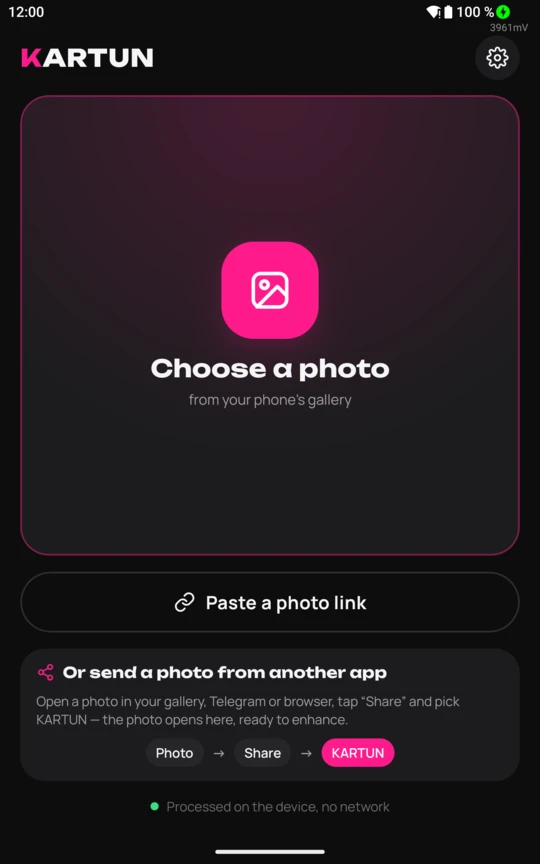
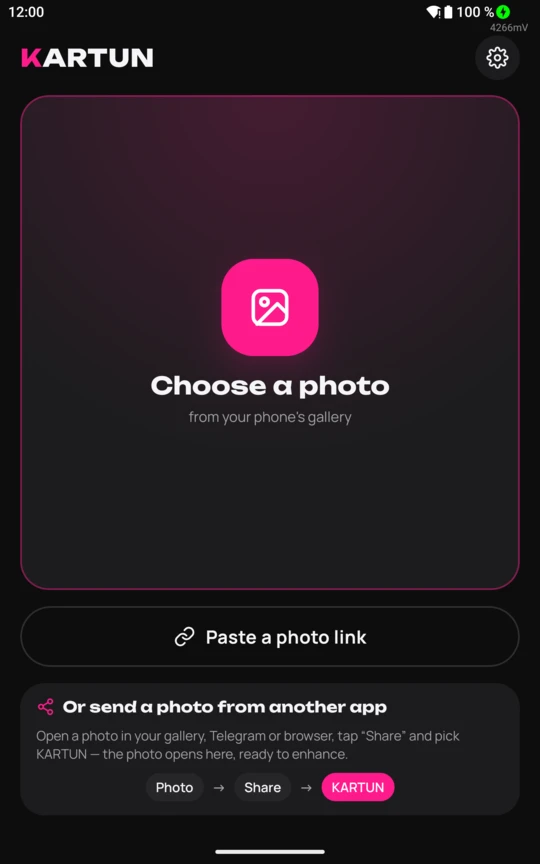
docs: soft close 2026-10-14 22:24 - STATUS rewritten as the live summary and the handover (the catalogue's next steps, the Titan recipe, what waits for the owner, the warning not to re-wire the ⏩ hooks), the session summary and the closed details moved verbatim to PROJECT_HISTORY; README screenshots

Changed region(s): [[0.0296, 0.625, 0.9778, 0.9375], [0.2667, 0.2812, 0.7407, 0.5], [0.3852, 0.3125, 0.4148, 0.375]]

diff --git a/STATUS.md b/STATUS.md
@@ -4,95 +4,80 @@
 > изменении. STATUS — сводка «сейчас»; закрытое переезжает дословно в `PROJECT_HISTORY.md`.
 > Принцип мышления — `PHILOSOPHY.md`; рабочий канон — `AGENT_GUIDE.md`; стенд и правила владельца — `HOUSE_RULES.md`.
 
-Последняя сессия: 2026-10-14 18:12–20:26 +03:00, закрыта мягко по слову владельца «закрывай чат, в новом продолжим. Можешь
-тестировать и дальше разрабатывать на титане в новом чате.» (сводка сессии — в `PROJECT_HISTORY.md`).
+Последняя сессия: 2026-10-14 20:37–22:24 +03:00, закрыта мягко по слову владельца «закрываем чат, и в новом продолжим,
+спасибо» (сводка и перенесённые подробности — в `PROJECT_HISTORY.md`).
 
-Неисправленные ложные утверждения: нет. Найденные и исправленные там, где стояли: «строки C15/C16 добавлены» (коммиты
-`2caef1e`, `7a3ac42`) → `9ed34b4`; числа тайлов в C25 → `03bdfdd`; «Lint падает внутри анализатора» в STATUS → `658a8b0`;
-«≈ 19:49» в блоке сторожа → `bdcc1e9`.
+Неисправленные ложные утверждения: нет. Найденное и исправленное: «медиа скопированы, сверка хешей не запускалась» —
+исправлено в чате и в STATUS (`02aa118`).
 
 ---
 
 ## Где мы сейчас
 
-Проект создан 2026-10-14. KAIF 2.8 с предрелизом 2.9 (`a63c651356bc`). Репозиторий: https://github.com/MikalaiKryvusha/KARTUN
-(публичный, `main`), README (EN + RU) и лицензия MIT на месте.
+Проект создан 2026-10-14. KAIF 2.8 с предрелизом 2.9 (`a63c651356bc`); хуки ⏩ (`pretool-owner-word`, `stop-owner-answer`)
+сняты по слову владельца «Убрать это!!!! ИЗ КАИФ НАХУЙ УБРАТ!» (коммит `9691dca`) — `tools/unwire-owner-word-hooks.mjs`;
+`node .kaif/kaif-core.mjs check` предлагает `wire-hooks` — **не запускать**, а после обновления KAIF снять их скриптом снова. Репозиторий: https://github.com/MikalaiKryvusha/KARTUN (публичный, `main`), README (EN + RU, скриншоты с Титана)
+и лицензия MIT на месте.
 
-**Фаза 0 закрыта** 2026-10-14 18:26: своя JNI-обёртка над ncnn `20260526`, Real-ESRGAN на GPU Mali-G615 (Vulkan) и CPU; быстрая
-модель `realesr-general-x4v3` — своя конвертация (`tools/convert-model.py`), на Титане 52,3 дБ к оригиналу, фото 1 Мп за 5,8 с;
-x4plus — 105 с. Модели и лицензии — `docs/model-licenses.md`, `docs/THIRD_PARTY.md`.
+**Фаза 0 закрыта** 2026-10-14 18:26: своя JNI-обёртка над ncnn `20260526`, Real-ESRGAN на GPU Mali-G615 (Vulkan) и CPU; фото
+1 Мп за 5,8 с быстрой моделью, x4plus — 89 с. Модели и лицензии — `docs/model-licenses.md`, `docs/THIRD_PARTY.md`.
 
-**Приложение (фазы 2, 3, части 1 и 4 — порядок 0 → 2 → 1 → 3 → 4, `plans/01` §3):** главный экран (выбор фото, «Поделиться» в
-KARTUN, «Вставить ссылку»), «Улучшение» (сворачивающееся превью, протяжка вниз — фото на весь экран, модели с предзагрузкой и
-оценкой времени словами, масштаб 1×–16×, (i) диалогами), обработка (кольцо процентов по тайлам, «Отменить», два прохода 8×/16×,
-фоновая служба с уведомлением, «Фото готово»), результат («до/после» пальцем, «Сохранить» PNG/JPEG/WebP в `Pictures/KARTUN`,
-«Поделиться»), «Настройки» (GPU, уведомления, язык), «Руководство» (Markdown, 6 разделов), «О приложении»; альбомная
-ориентация; 10 языков (EN и RU ведутся руками, 8 — черновик `[AI]`); настройки запоминаются; своя векторная иконка-сердце.
-Планы: `plans/03_epic01_F2_screens.md` (шаги и правки владельца, 17–22 — открыто), `plans/04_epic01_F1_reliable_engine.md`.
+**Приложение (фазы 2, 3, части 1 и 4):** главный экран (выбор фото, «Поделиться» в KARTUN, «Вставить ссылку» — из буфера или
+окном с полем ввода), «Улучшение» (сворачивающееся превью с хендлом и жестами, модели по давности использования с описаниями
+«Быстрая · убирает шум и размытие» / «Детальная · чётче мелкие детали», масштаб 1×–16×), обработка (кольцо процентов
+табличными цифрами, «Отменить», фоновая служба с уведомлением), результат («до/после» за линию, фото двигается и
+увеличивается, сводка с моделью уезжает за край, «Сохранить» PNG/JPEG/WebP, «Поделиться»), «Настройки» (GPU, уведомления,
+язык, «О приложении» со ссылками и донатами, «Условия использования»), руководство; альбомная ориентация; 10 языков (EN и RU
+руками, 8 — черновик `[AI]`). Почти всё пройдено на Титане касаниями и снимками; `[NOT-TESTED]` остаётся набор
+`testcases/TC_F2_guarded_loop_device_backlog.md` (25 случаев).
 
-**На Титане проверено касаниями** то, что было до 19:12 (`testcases/reports/2026-10-14_F2_screens_slice1.md`), и правки
-сессии 20:37–21:55 (каждая — снимком экрана в той же сессии): системный вопрос об уведомлениях при первом «Улучшить» (выдано,
-прогон пошёл сам); хендл в свёрнутом и развёрнутом виде; экран результата — одна «Поделиться», серые подложки, полупрозрачные
-«До»/«После», модель в сводке, линия «до/после» берётся только за себя, фото двигается пальцем, двойное касание, сводка
-уезжает за край и возвращается стрелкой; цифры процентов не пляшут (замер ширины 268–320 → 295 px); порядок моделей по
-давности; «О приложении» со ссылками; надпись лицензии; плашка масштаба. Остаётся `[NOT-TESTED]`: набор
-`testcases/TC_F2_guarded_loop_device_backlog.md` (25 случаев + 3 контрольных) и жесты самого превью (`plans/03` шаг 17).
+**Каталог моделей** (`plans/05_model_catalogue.md`; владелец 22:04: «Б. Наш GitHub, отдельный релиз models», журнал `MASTER_PLAN.md`):
+`docs/model-catalogue.json` — 5 моделей (x4plus anime, AnimeVideo v3, 4xNomos8kSC, 4xHFA2k, UltraSharp) с хешами, все
+прогнаны на Титане через видеочип (≈ 5,3–5,4 с на 256² у 33-мегабайтных); превью `docs/model-previews/`; копия для
+приложения — `node tools/catalogue.mjs` (`--check`). Файлы моделей лежат вне git в `engine/third_party/catalogue/` и
+`engine/third_party/realesrgan-win/models/`.
 
-**README** переписан по долгу владельца (EN + RU, 16 настоящих скриншотов с Титана, `tools/shoot-readme.mjs` их переснимает).
-22:00–22:14: окно «Ссылка на фото» при пустом буфере; «О приложении» и «Условия использования» — строками настроек; строка
-DonationAlerts (адрес из NDim); описания моделей по варианту А владельца; в интерфейсе нет «открытый код · офлайн · на
-устройстве»; жесты превью пройдены. План каталога моделей — `plans/05_model_catalogue.md` (решение Б: свой релиз `models`).
-Хуки KAIF `pretool-owner-word` и `stop-owner-answer` сняты 20:45 скриптом владельца `tools/unwire-owner-word-hooks.mjs`.
-
-**Проверки на ПК** (все зелёные на 20:25): `.\gradlew.bat :app:testDebugUnitTest assembleDebug` (21 JVM-тест) · `assembleStage`,
-`assembleRelease` (названия по R3) · `python tools/make-translations.py --check` · `python tools/make-vector-icon.py --check` ·
-`node tools/check-app-names.mjs` (ещё и в pre-commit) · `node tools/stage-models.mjs` · `gradlew :app:lintDebug` — 0 ошибок
-(замер 20:26, после разрешения уведомлений).
+**Проверки на ПК** (зелёные на 22:21): `.\gradlew.bat :app:testDebugUnitTest assembleDebug` (25 JVM-тестов) ·
+`gradlew :app:lintDebug` — 0 ошибок, 11 предупреждений · `python tools/make-translations.py --check` ·
+`node tools/check-app-names.mjs` · `node tools/catalogue.mjs --check`.
 
 **Сборки:** `debug` («Debug KARTUN»), `stage` («Stage KARTUN»), `release` («KARTUN») — правило R3 в `HOUSE_RULES.md`.
 
-**Очистка Титана** (`ideas/01`, папка `J:\OLD_HDD\Pic\_titan_inbox_2026-10-14\` = `<inbox>`): днём сверка в 14:11 застала
-копирование на середине — 3 964 из 8 695 сверены, 4 731 не было на диске (поправка 22:12: прежняя строка «скопированы; сверка
-хешей ещё не запускалась» была неверна в обеих частях). 22:07 по слову владельца «нужно докопировать»: свежая опись Титана —
-8 716 файлов, 16,57 ГБ; докачано 137 недостающих (0,18 ГБ, шаг `pullmissing`, добавлен в `offload.mjs`); **сверка 22:14:
-8 716 из 8 716, расхождений 0** (размер и SHA-256 копии равны файлу на Титане; лог `<inbox>\_state\run-2026-10-14_2208.log`).
-Дальше — раскладка (`sort`) и удаление с Титана только по слову владельца «да».
+**Медиа Титана** (`ideas/01`): все 8 716 файлов Telegram (16,57 ГБ) скопированы в `J:\OLD_HDD\Pic\_titan_inbox_2026-10-14\`
+и сверены по SHA-256 (22:14, расхождений 0, лог `_state\run-2026-10-14_2208.log`). Раскладка и удаление с Титана — по «да».
 
 ---
 
 ## Где продолжить
 
-1. **Титан — проверка касаниями.** `adb connect 100.99.111.48:<порт>` (последний — `44487`, 20:16; порт меняется после
-   перезагрузки — спросить владельца). adb видит Титан и через mDNS вторым устройством — адресуй команды
-   `adb -s 100.99.111.48:<порт>`, а `tools/titan-probe.mjs` — с `KARTUN_SERIAL=100.99.111.48:<порт>`. Последняя сборка
-   (коммит `9a6b005`) уже стоит; на Титане лежит тестовое фото `/sdcard/Pictures/KARTUN_test/beach.png` (удалить по R1 при закрытии); `pm clear` в ≈ 20:16 стёр `/sdcard/Android/data/com.kriniks.kartun.debug/files/` — для
-   `tools/titan-probe.mjs` заново залить модели и `test256.png`/`test1mp.png`/`photo1.jpg` (`adb push`). Тестовое фото — копия `photo1.jpg` из `engine/third_party/testdata/` в
-   `/sdcard/Pictures/KARTUN_test/` (`adb push`), после прогона удалить (R1). Порядок:
-   a) жесты превью и хендл (`plans/03` шаг 17) — двойное касание, удержание + протяжка, одиночное касание, хендл;
-   b) ✅ 20:53 — системный вопрос об уведомлениях при первом «Улучшить», строка «Уведомления» с галочкой в настройках;
-   c) набор `testcases/TC_F2_guarded_loop_device_backlog.md` по порядку → `testcases/reports/<дата>_F2_guarded_loop_device_run.md`;
-   каждый прошедший случай снимает `[NOT-TESTED]` в своём коде.
-2. **Каталог моделей** — `plans/05_model_catalogue.md`: `docs/model-catalogue.json` (5 моделей с хешами) и превью
-   `docs/model-previews/` готовы, все 5 моделей прогнаны на Титане через видеочип; дальше — генератор копии для приложения,
-   загрузка в релиз `models`, экран «Все модели». Остальные
-   правки владельца из `plans/03` сделаны и пройдены на Титане, кроме текста «Условий использования» — он ждёт вычитки.
-3. **Фаза 1, шаг 3** (`plans/04`): запись больших результатов полосами по `researches/05` — сначала замер (описан в шаге).
-4. **Медиа Титана** (`ideas/01`): `node <inbox>\_state\tool\offload.mjs config.json verify` → `sort` → итог владельцу.
+1. **Каталог моделей** — `plans/05_model_catalogue.md`, шаги 4–7: выложить файлы и превью в релиз `models`
+   (`gh release upload`, сначала скрипт сверки хешей), загрузчик в приложении с проверкой SHA-256, экран «Все модели» (превью,
+   автор, надпись лицензии, размер, «Скачать» / «Удалить»), строка «Модель принадлежит автору» на карточке; надпись
+   «Не для коммерческого использования» — новая строка в 10 языках (`plans/03` шаг 35).
+2. **Титан** — `D:\Android\Sdk\platform-tools\adb.exe connect 100.99.111.48:<порт>` (последний `44487`; после перезагрузки
+   порт меняется — спросить владельца); команды адресовать `adb -s 100.99.111.48:<порт>` (mDNS даёт второе устройство);
+   `tools/titan-probe.mjs` и `tools/shoot-readme.mjs` — с `KARTUN_SERIAL=100.99.111.48:<порт>`. Последняя сборка стоит
+   (`430594b`); папка проб `/sdcard/Android/data/com.kriniks.kartun.debug/files/` пуста — модели и `test256.png` заливать
+   `adb push` перед пробой и удалять после (R1). Набор `testcases/TC_F2_guarded_loop_device_backlog.md` по порядку →
+   `testcases/reports/<дата>_F2_guarded_loop_device_run.md`.
+3. **Фаза 1, шаг 3** (`plans/04`): запись больших результатов полосами по `researches/05` — сначала замер.
+4. **Медиа Титана** — после «да» владельца: `node <inbox>\_state\tool\offload.mjs <inbox>\_state\tool\config.json sort`, затем
+   `delete --yes` (удаляет с Титана только сверенные файлы).
 
 ---
 
 ## ❓ Ждёт владельца
 
-- ❓ «Условия использования» (`res/raw*/terms.md`) — `[AI]`-черновик, вычитка владельцем.
-- ❓ Каталог: брать ли UltraMix и Remacri (готовых файлов ncnn у них нет — своя конвертация и раздача у нас) — `plans/05`.
+- ❓ «Условия использования» (`res/raw*/terms.md`) — `[AI]`-черновик, вычитка.
+- ❓ Каталог: брать ли UltraMix и Remacri (готовых файлов ncnn нет — своя конвертация и раздача у нас) — `plans/05`.
 - ❓ Идея 02: ADB — в фазу 4, HTTPS — в фазу 5 (предложено в чате 22:03).
 - ❓ Идея 01: «да» на раскладку и удаление сверенных 8 716 файлов с Титана.
-- ❓ README — вычитка владельцем (витрина, `[AI]`-меток там нет по правилу витрины).
-- ❓ Вердикт по виду: векторное сердце (`design/icon/compare_vector_smart.png`) и экраны рядом с макетами.
-- ❓ Pinch-зум на «до/после» и в полноэкранном фото — adb не умеет мультитач.
-- ❓ `[AI]` черновые переводы на ES, PT, FR, DE, ZH, HI, BN, AR; `README.md` — вычитка владельцем.
-- ❓ `ideas/01` — «да» на удаление сверенных медиа с Титана · `ideas/02` — `[AI]` распределение API по фазам.
+- ❓ README и `[AI]` черновые переводы на ES, PT, FR, DE, ZH, HI, BN, AR — вычитка.
+- ❓ Фраза руководства «изображение не покидает телефон…» и подпись README «Open source · Offline · AI on the device» —
+  убрать ли и их (слово 21:55 касалось интерфейса).
+- ❓ Вердикт по виду: векторное сердце (`design/icon/compare_vector_smart.png`); pinch-зум (adb не умеет мультитач).
 
 ## Открытые баги
 
-Нет в коде KARTUN. Дефект KAIF: `bugs/KAIF/01_owner_word_hooks_stall_and_arrow.md` → MikalaiKryvusha/KAIF#144.
+Нет в коде KARTUN. Дефект KAIF: `bugs/KAIF/01_owner_word_hooks_stall_and_arrow.md` → MikalaiKryvusha/KAIF#144 (дополнен
+комментарием 2026-10-14 20:40: слова владельца «Убрать это!!!! ИЗ КАИФ НАХУЙ УБРАТ!» и факт, что агент не может снять хуки сам).

diff --git a/PROJECT_HISTORY.md b/PROJECT_HISTORY.md
@@ -27,6 +27,46 @@
 
 ## Entries (newest first)
 
+### 2026-10-14 20:37–22:24 +03:00 — третья сессия: README, правки владельца на Титане, хуки ⏩ сняты, медиа Титана сверены, каталог моделей начат ✅
+
+Сводка (агент, при закрытии 22:24): вход `/resume`; долг владельца — README переписан (EN + RU, 16 скриншотов с Титана,
+`tools/shoot-readme.mjs`); хуки `pretool-owner-word` / `stop-owner-answer` сняты скриптом владельца
+`tools/unwire-owner-word-hooks.mjs` (агенту правку своих хуков запретил классификатор Claude Code), тикет KAIF#144 дополнен;
+≈ 30 правок владельца в `plans/03` (шаги 17–40) сделаны и пройдены на Титане снимками; два автономных окна (21:14–21:55,
+21:56–22:26); медиа Telegram с Титана докачаны и сверены 8 716 из 8 716; план каталога `plans/05`, 5 моделей прогнаны на
+Титане, `docs/model-catalogue.json`, превью, `tools/catalogue.mjs`. Ложное утверждение сессии — «скопированы, сверка не
+запускалась» (медиа) — исправлено в чате и в STATUS (`02aa118`).
+
+Перенесено дословно из `STATUS.md` при закрытии:
+
+Последняя сессия: 2026-10-14 18:12–20:26 +03:00, закрыта мягко по слову владельца «закрывай чат, в новом продолжим. Можешь
+тестировать и дальше разрабатывать на титане в новом чате.» (сводка сессии — в `PROJECT_HISTORY.md`).
+
+Неисправленные ложные утверждения: нет. Найденные и исправленные там, где стояли: «строки C15/C16 добавлены» (коммиты
+`2caef1e`, `7a3ac42`) → `9ed34b4`; числа тайлов в C25 → `03bdfdd`; «Lint падает внутри анализатора» в STATUS → `658a8b0`;
+«≈ 19:49» в блоке сторожа → `bdcc1e9`.
+
+**На Титане проверено касаниями** то, что было до 19:12 (`testcases/reports/2026-10-14_F2_screens_slice1.md`), и правки
+сессии 20:37–21:55 (каждая — снимком экрана в той же сессии): системный вопрос об уведомлениях при первом «Улучшить» (выдано,
+прогон пошёл сам); хендл в свёрнутом и развёрнутом виде; экран результата — одна «Поделиться», серые подложки, полупрозрачные
+«До»/«После», модель в сводке, линия «до/после» берётся только за себя, фото двигается пальцем, двойное касание, сводка
+уезжает за край и возвращается стрелкой; цифры процентов не пляшут (замер ширины 268–320 → 295 px); порядок моделей по
+давности; «О приложении» со ссылками; надпись лицензии; плашка масштаба. Остаётся `[NOT-TESTED]`: набор
+`testcases/TC_F2_guarded_loop_device_backlog.md` (25 случаев + 3 контрольных) и жесты самого превью (`plans/03` шаг 17).
+
+**README** переписан по долгу владельца (EN + RU, 16 настоящих скриншотов с Титана, `tools/shoot-readme.mjs` их переснимает).
+22:00–22:14: окно «Ссылка на фото» при пустом буфере; «О приложении» и «Условия использования» — строками настроек; строка
+DonationAlerts (адрес из NDim); описания моделей по варианту А владельца; в интерфейсе нет «открытый код · офлайн · на
+устройстве»; жесты превью пройдены. План каталога моделей — `plans/05_model_catalogue.md` (решение Б: свой релиз `models`).
+Хуки KAIF `pretool-owner-word` и `stop-owner-answer` сняты 20:45 скриптом владельца `tools/unwire-owner-word-hooks.mjs`.
+
+**Очистка Титана** (`ideas/01`, папка `J:\OLD_HDD\Pic\_titan_inbox_2026-10-14\` = `<inbox>`): днём сверка в 14:11 застала
+копирование на середине — 3 964 из 8 695 сверены, 4 731 не было на диске (поправка 22:12: прежняя строка «скопированы; сверка
+хешей ещё не запускалась» была неверна в обеих частях). 22:07 по слову владельца «нужно докопировать»: свежая опись Титана —
+8 716 файлов, 16,57 ГБ; докачано 137 недостающих (0,18 ГБ, шаг `pullmissing`, добавлен в `offload.mjs`); **сверка 22:14:
+8 716 из 8 716, расхождений 0** (размер и SHA-256 копии равны файлу на Титане; лог `<inbox>\_state\run-2026-10-14_2208.log`).
+Дальше — раскладка (`sort`) и удаление с Титана только по слову владельца «да».
+
 ### 2026-10-14 18:12–20:25 +03:00 — вторая сессия: фаза 0 закрыта, экраны MVP, защищённый цикл без устройства ✅
 
 Перенесено из `STATUS.md` дословно при мягком закрытии 2026-10-14 ≈ 20:26 +03:00 (бонсай-обрезка).

diff --git a/EXPERIENCE.md b/EXPERIENCE.md
@@ -56,7 +56,7 @@
 > <!-- classes: question-already-answered, guard-not-proven-against-threat, shown-as-link,
 >      claim-before-evidence, owner-decision-not-applied, text-in-agents-world,
 >      etalon-from-dirty-tree, shell-lied, escaping-layer, twins-missed,
->      field-dropped-in-rebuild, platform-layer-unseen, silent-noop-edit -->
+>      field-dropped-in-rebuild, platform-layer-unseen, silent-noop-edit, replace-crossed-scope, stand-left-dirty -->
 >
 > | Class slug | The failure it names |
 > |---|---|
@@ -73,6 +73,8 @@
 > | `field-dropped-in-rebuild` | a field or section silently lost when an artifact was regenerated |
 > | `platform-layer-unseen` | the platform renders an asset in a place the agent never looked at (splash, themed icon, dark mode) |
 | `silent-noop-edit` | a scripted edit whose anchor did not match changed nothing, and the work was reported as done |
+| `replace-crossed-scope` | a scripted replace matched the same text in a neighbouring block (another language, another section) |
+| `stand-left-dirty` | a harness left the owner's device, stand or tree in a state the owner does not expect |
 >
 > The `#tags` are **trigger-tags**: before a task, grep by the task's tags and QUOTE the relevant
 > lessons in your report (id + one line) — or state "no relevant lessons". An unquoted recall is
@@ -81,6 +83,43 @@
 > Skill: `/experience` (capture a lesson · recall relevant lessons).
 
 ## Entries
+
+<!-- class-ok: claim-before-evidence — re-checked 2026-10-14 for the whole class: the cheap halves are mechanized (moments - tools/stamp-guard.mjs, EXP-0005; icon geometry - tools/make-icon.py, EXP-0006); what is left are counts and states written in prose and chat, with no single producing tool a guard could watch - the check is the Repro command run in the same turn as the claim -->
+
+### EXP-0012 · 2026-10-14 · ❌→✅ · #status #claim #state
+class: claim-before-evidence
+**Context:** answering the owner's «что там по беклогу?» about the Titan media offload (idea 01).
+**Tried / did:** retold STATUS from memory: «скопированы, но сверка хешей не запускалась».
+**Result:** ❌ wrong twice — the state files (`<inbox>\_state\verified.json`, `verify-bad.json`, 14:11) showed a check that ran mid-copy
+(3 964 verified, 4 731 missing). ✅ corrected in chat and STATUS (`02aa118`); the resume then verified 8 716 of 8 716.
+**Lesson:** a status line about an external process is a pointer, not evidence — read the process's own state files before repeating it.
+**Repro:** `node -e "for(const f of ['verified','verify-bad'])console.log(f,JSON.parse(require('fs').readFileSync('J:/OLD_HDD/Pic/_titan_inbox_2026-10-14/_state/'+f+'.json','utf8')).length)"`
+**Trigger:** about to tell the owner the state of a copy, a run or a sync → open its state file or log in the same turn.
+**Not for:** facts this session measured itself a moment ago.
+none-cheap: the claim lives in chat prose and in STATUS; no repository tool can know which external process a sentence describes
+
+### EXP-0011 · 2026-10-14 · ❌→✅ · #i18n #script #edit
+class: replace-crossed-scope
+**Context:** rewriting positional entries of `tools/make-translations.py` (8 languages, one list each).
+**Tried / did:** a global `text.replace(old_pair, new_pair)` per language.
+**Result:** ❌ Spanish and Portuguese share some old values («Máximo · textura viva»), so the Spanish pass would have written Spanish
+into the Portuguese list; ✅ caught by the next language's assert before any write, then replaced inside each language's own block.
+**Lesson:** a value is unique per BLOCK, not per file — scope the replace to the block that owns it and assert count == 1 there.
+**Repro:** in the edit script: find `    "<lang>": [` inside the right dict, slice to the next language, `assert seg.count(old) == 1`.
+**Trigger:** writing a script that edits a multi-language table → per-block replace, never a file-wide one.
+**Not for:** keys that are unique by construction (resource names in strings.xml).
+none-cheap: the edit scripts are throwaway; the net is the per-block assert plus `python tools/make-translations.py --check`
+
+### EXP-0010 · 2026-10-14 · ❌→✅ · #titan #probe #device
+class: stand-left-dirty
+**Context:** probing catalogue models on the Titan with `tools/titan-probe.mjs` while the owner held the tablet.
+**Tried / did:** the probe starts MainActivity with extras that skip `setContent` and left it like that.
+**Result:** ❌ the owner: «почему черный экран сейчас?»; ✅ the probe now restarts the normal interface on every exit.
+**Lesson:** a harness that drives the owner's device leaves it the way the owner expects to find it.
+**Repro:** `KARTUN_SERIAL=<serial> node tools/titan-probe.mjs --in test256.png --model realesr-animevideov3-x4 --gpu true --tile 200` → the home screen («Выберите фото») is back.
+**Trigger:** writing any adb harness step that changes what the device shows → end it by restoring the screen.
+**Not for:** runs on a device nobody looks at.
+mechanized: tools/titan-probe.mjs (restoreUi on every exit)
 
 ### EXP-0009 · 2026-10-14 · ❌→✅ · #docs #numbers #claim
 class: claim-before-evidence

diff --git a/README.md b/README.md
@@ -51,7 +51,7 @@ Sections: 1 What it does · 2 Screens · 3 Models and speed · 4 Privacy · 5 Fo
 1. Enlarges a photo 1×, 2×, 4×, 8× or 16× with a Real-ESRGAN neural network. The network restores detail that plain
    stretching does not have: edges, texture, small text.
 2. Takes the photo three ways: from the gallery, from any app's «Share» menu (Telegram, the gallery, a browser), or from
-   a link copied to the clipboard.
+   a link — taken from the clipboard or typed in.
 3. Estimates the time before the run and shows the progress as a percent ring over the photo's real tiles. The estimate
    learns from the runs on your device.
 4. Keeps working when you leave the app: the progress and «Cancel» stay in the notification, «Your photo is ready»
@@ -73,7 +73,7 @@ Sections: 1 What it does · 2 Screens · 3 Models and speed · 4 Privacy · 5 Fo
 | Enhance | see the photo and its size, pick the model and the scale, start; swipe up to fold the photo into a row, pull the handle down to open it full screen |
 | Processing | watch the ring and the tiles fill in, see the time left, cancel |
 | Result | compare before and after, save, share |
-| Settings | GPU acceleration, notifications, language, the user guide, «About» with the device and the licences |
+| Settings | GPU acceleration, notifications, language, the user guide, «About» with the device, the author and the licences, the terms of use |
 
 <p align="center">
   <img src="docs/screenshots/en/03_setup.webp" width="24%" alt="Model and scale">
@@ -196,7 +196,7 @@ Vulkan.
 1. Увеличивает фото в 1×, 2×, 4×, 8× или 16× нейросетью Real-ESRGAN. Нейросеть восстанавливает то, чего нет при
    обычном растяжении: края, фактуру, мелкий текст.
 2. Берёт фото тремя путями: из галереи, из меню «Поделиться» любого приложения (Telegram, галерея, браузер) или по
-   ссылке из буфера обмена.
+   ссылке — из буфера обмена или набранной вручную.
 3. Оценивает время до запуска и показывает ход работы кольцом процентов поверх настоящих тайлов фото. Оценка учится на
    прогонах вашего устройства.
 4. Продолжает работу, когда вы выходите из приложения: прогресс и «Отменить» остаются в уведомлении, по готовности
@@ -218,7 +218,7 @@ Vulkan.
 | «Улучшение» | видят фото и его размер, выбирают модель и масштаб, запускают; свайп вверх сворачивает фото в строку, хендл вниз раскрывает его на весь экран |
 | Обработка | следят за кольцом и тайлами, видят оставшееся время, могут отменить |
 | Результат | сравнивают «до» и «после», сохраняют, делятся |
-| Настройки | ускорение GPU, уведомления, язык, руководство пользователя, «О приложении» с устройством и лицензиями |
+| Настройки | ускорение GPU, уведомления, язык, руководство пользователя, «О приложении» с устройством, автором и лицензиями, условия использования |
 
 <p align="center">
   <img src="docs/screenshots/ru/03_setup.webp" width="24%" alt="Модель и масштаб">
